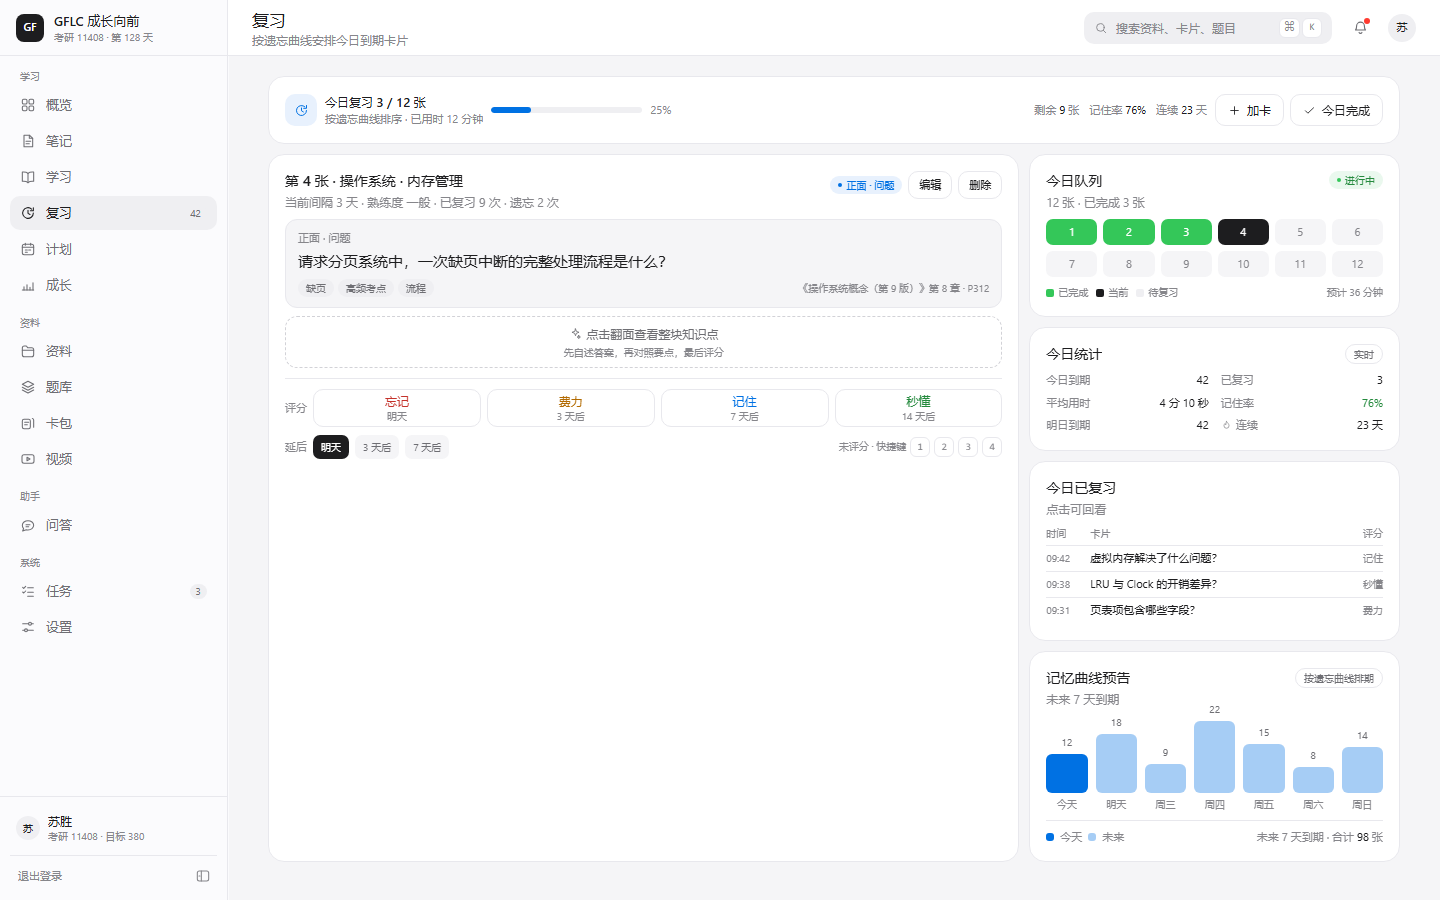
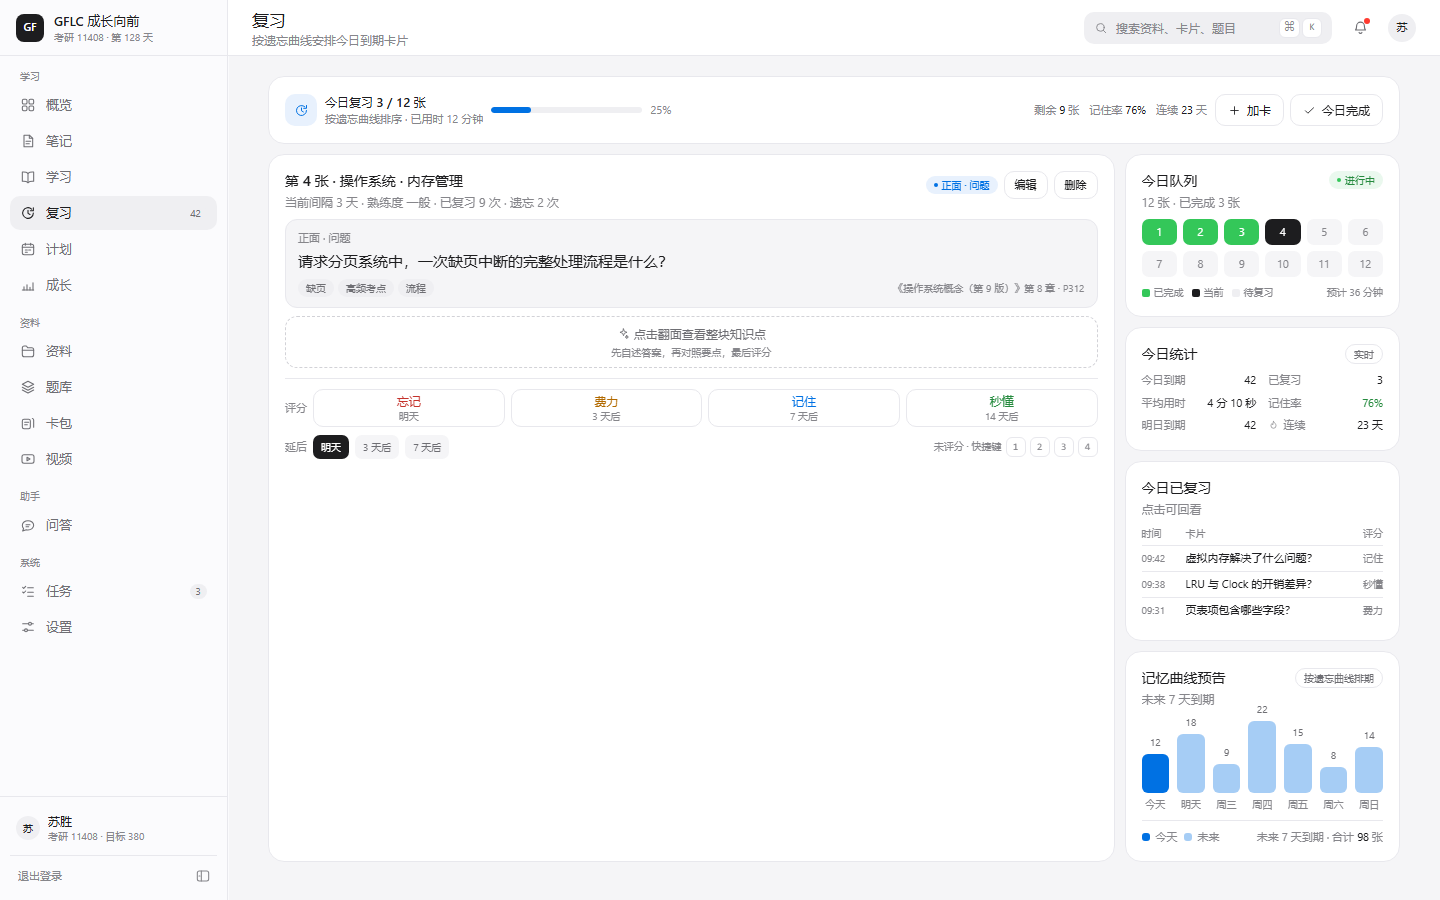
feat(proto): 复习卡片区加宽（8→9列）+ 接口报告完善
- ReviewPage 卡片区 xl:col-span-8→9，右栏 4→3（实测卡片区 847px）
- 53 接口契约文档补充：
  - 十三、前端复刻执行状态（14 页全部对齐清单）
  - 十四、后端实施优先级（P0-P2 共 7 项缺失接口排序）

diff --git a/gflc/web/src/proto/pages/ReviewPage.jsx b/gflc/web/src/proto/pages/ReviewPage.jsx
@@ -62,7 +62,7 @@ export default function ReviewPage() {
       </Card>
 
       <div className="grid grid-cols-1 gap-2.5 xl:grid-cols-12">
-        <Card className="xl:col-span-8">
+        <Card className="xl:col-span-9">
           <SectionTitle
             title={`第 ${done + 1} 张 · ${reviewCard.chapter}`}
             sub={`${reviewCard.interval} · 已复习 ${reviewCard.reviews} 次 · 遗忘 ${reviewCard.lapses} 次`}
@@ -157,7 +157,7 @@ export default function ReviewPage() {
           </div>
         </Card>
 
-        <div className="flex flex-col gap-2.5 xl:col-span-4">
+        <div className="flex flex-col gap-2.5 xl:col-span-3">
           <Card>
             <SectionTitle
               title="今日队列"

diff --git a/开发计划/53_前端接口契约文档.md b/开发计划/53_前端接口契约文档.md
@@ -192,6 +192,39 @@ POST /api/tasks/cleanup
 
 ---
 
+## 十三、前端复刻执行状态（2026-11-28 更新）
+
+| 页面 | 状态 | 说明 |
+|---|---|---|
+| dash 仪表盘 | ✅ 已对齐 | 四指标/周目标/最近学习/热力图/卡片分布/系统信息/AI用量 七块 |
+| docs 资料 | ✅ 已对齐 | 左树分组 + 三态 + 分页 + 存储占用 |
+| banks 题库 | ✅ 已对齐 | 题库概览 + 解析队列 + 分页 |
+| deck 卡包 | ✅ 已对齐 | 学科徽标 + 掌握度进度条 |
+| study 刷题 | ✅ 已对齐 | 四模式 + 同类真题 + 选项分布 |
+| review 复习 | ✅ 已对齐 | 卡片墙 + 四档评分 + 未来7天柱状（卡片区 8→9 列加宽） |
+| plans 计划 | ✅ 已对齐 | 日历三视图 + 周目标 + 模板 |
+| growth 成长 | ✅ 已对齐 | 等级 XP + 五维 + 里程碑 + 今日任务 |
+| qa AI 伴侣 | ✅ 已对齐 | 三栏 + 推荐问题 + 会话 |
+| video 视频 | ✅ 已对齐 | 解析链接 + 笔记风格 + 徽标行 + 时间轴 |
+| tasks 任务 | ✅ 已对齐 | 任务表 + 队列概览 |
+| settings 设置 | ✅ 已对齐 | 9 分组 + 学习档案 + 登录设备 |
+| notes 笔记 | ✅ 已对齐 | 文件树 + 编辑器 + 相关笔记（列表去重） |
+| auth 登录 | ✅ 已对齐 | 表单 + 营销区 |
+
+**全部 14 页面已复刻对齐**，前端 100% mock。
+
+## 十四、后端实施优先级建议
+
+| 优先级 | 接口 | 理由 |
+|---|---|---|
+| P0 | GET /dashboard/v7 补全（kpis/recent/system/ai_usage） | 仪表盘切真数据唯一入口 |
+| P0 | GET /questions/banks/{id}/overview + folders | 题库页右栏数据源 |
+| P1 | GET /review/upcoming | 复习页柱状图数据源 |
+| P1 | GET /quiz/related/{id}（同类题+选项分布） | 刷题页底部区块 |
+| P1 | POST /notes/tidy/apply | AI 整理落库 |
+| P2 | GET /plans/events（日历聚合） | 计划页日历接真数据 |
+| P2 | POST /videos/url 加 note_style 参数 | 笔记风格四选一落库 |
+
 ## 汇总统计
 
 | 分类 | 已有 ✅ | 需对齐 🟡 | 缺失 ❌ |
